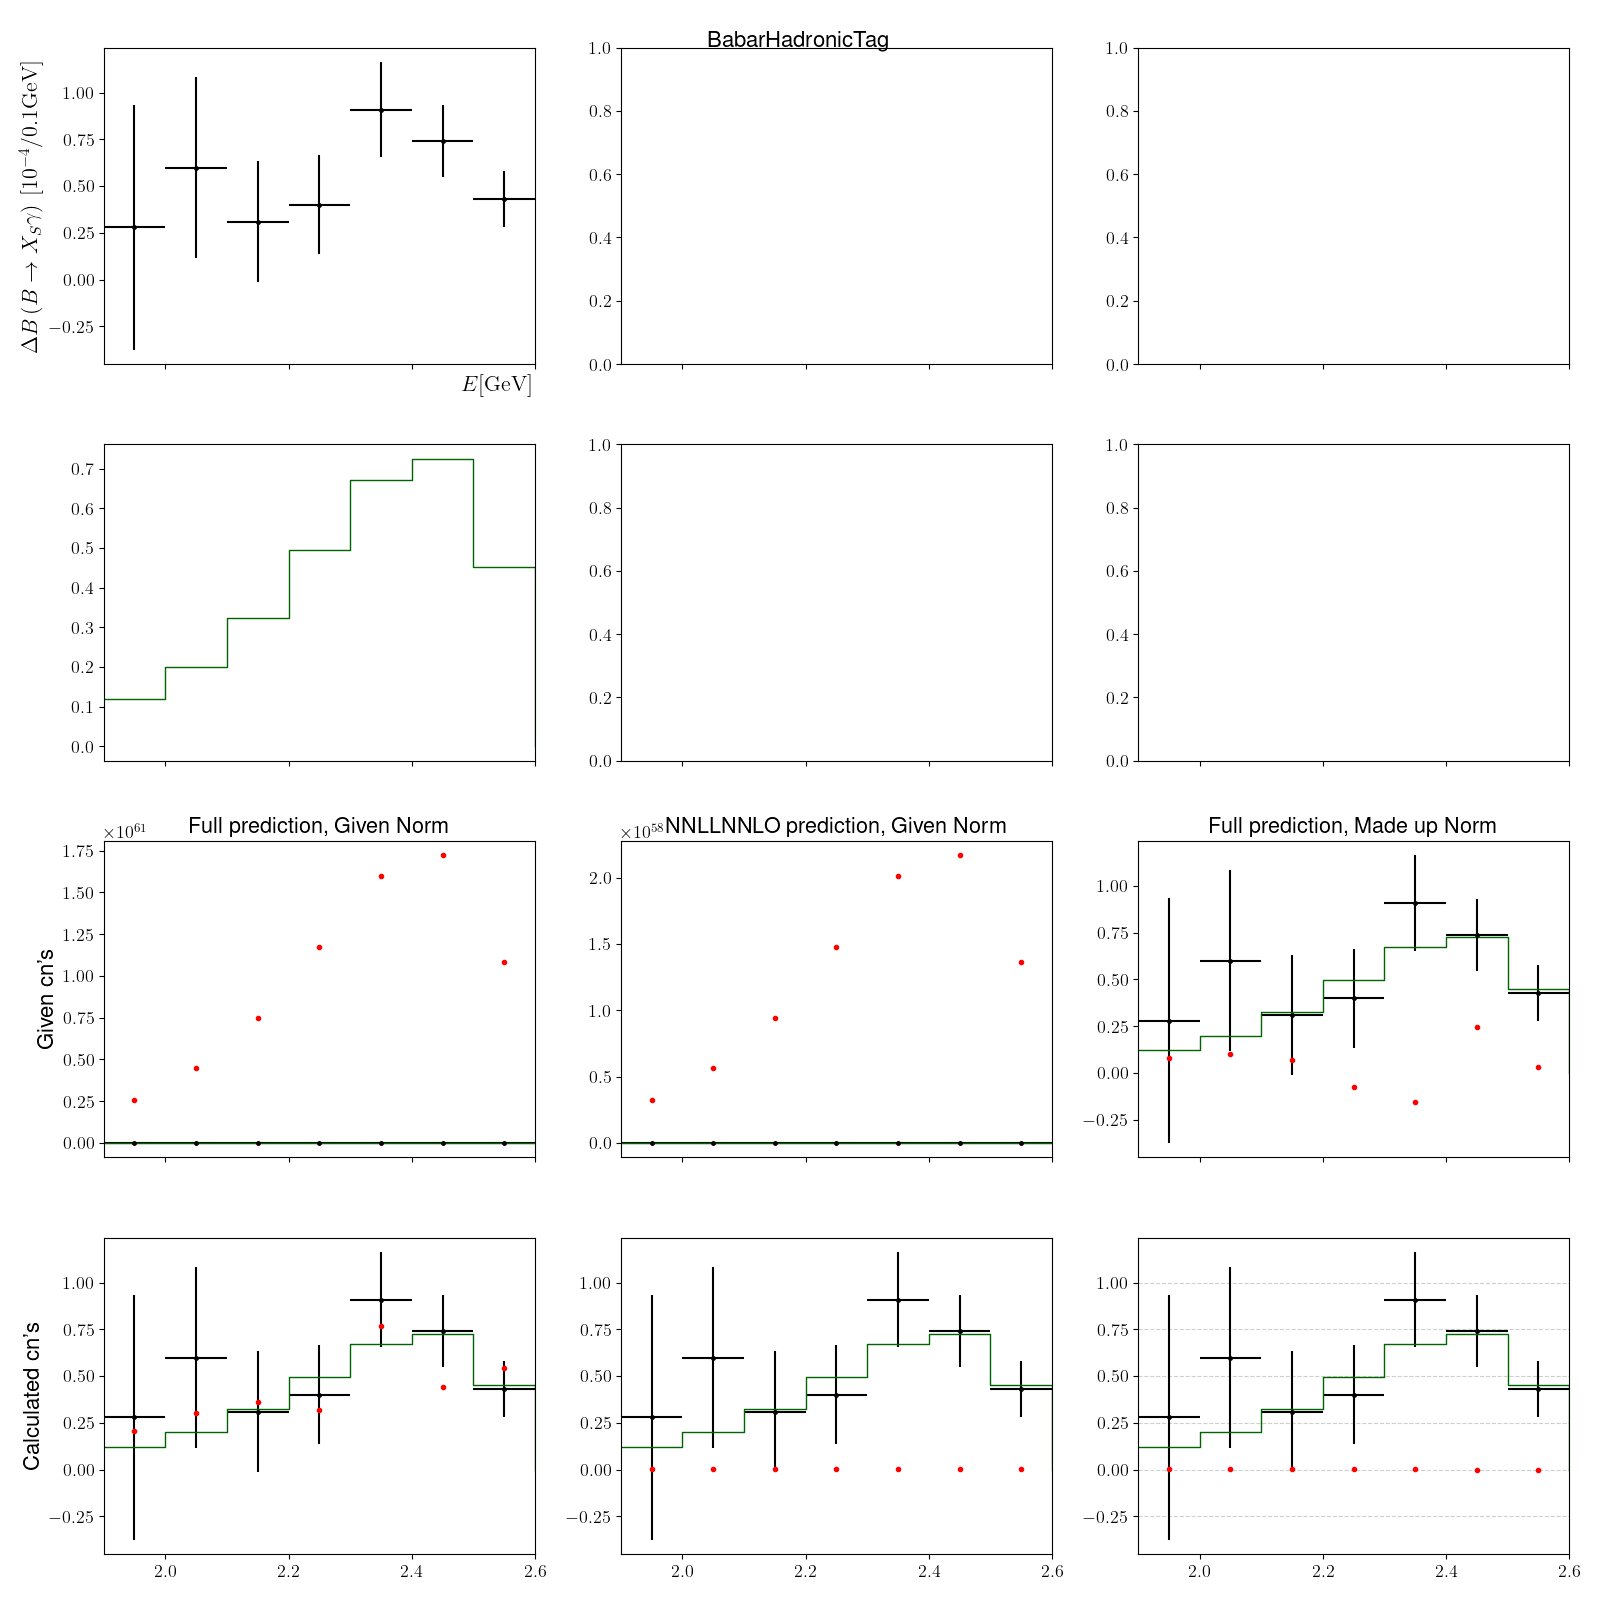
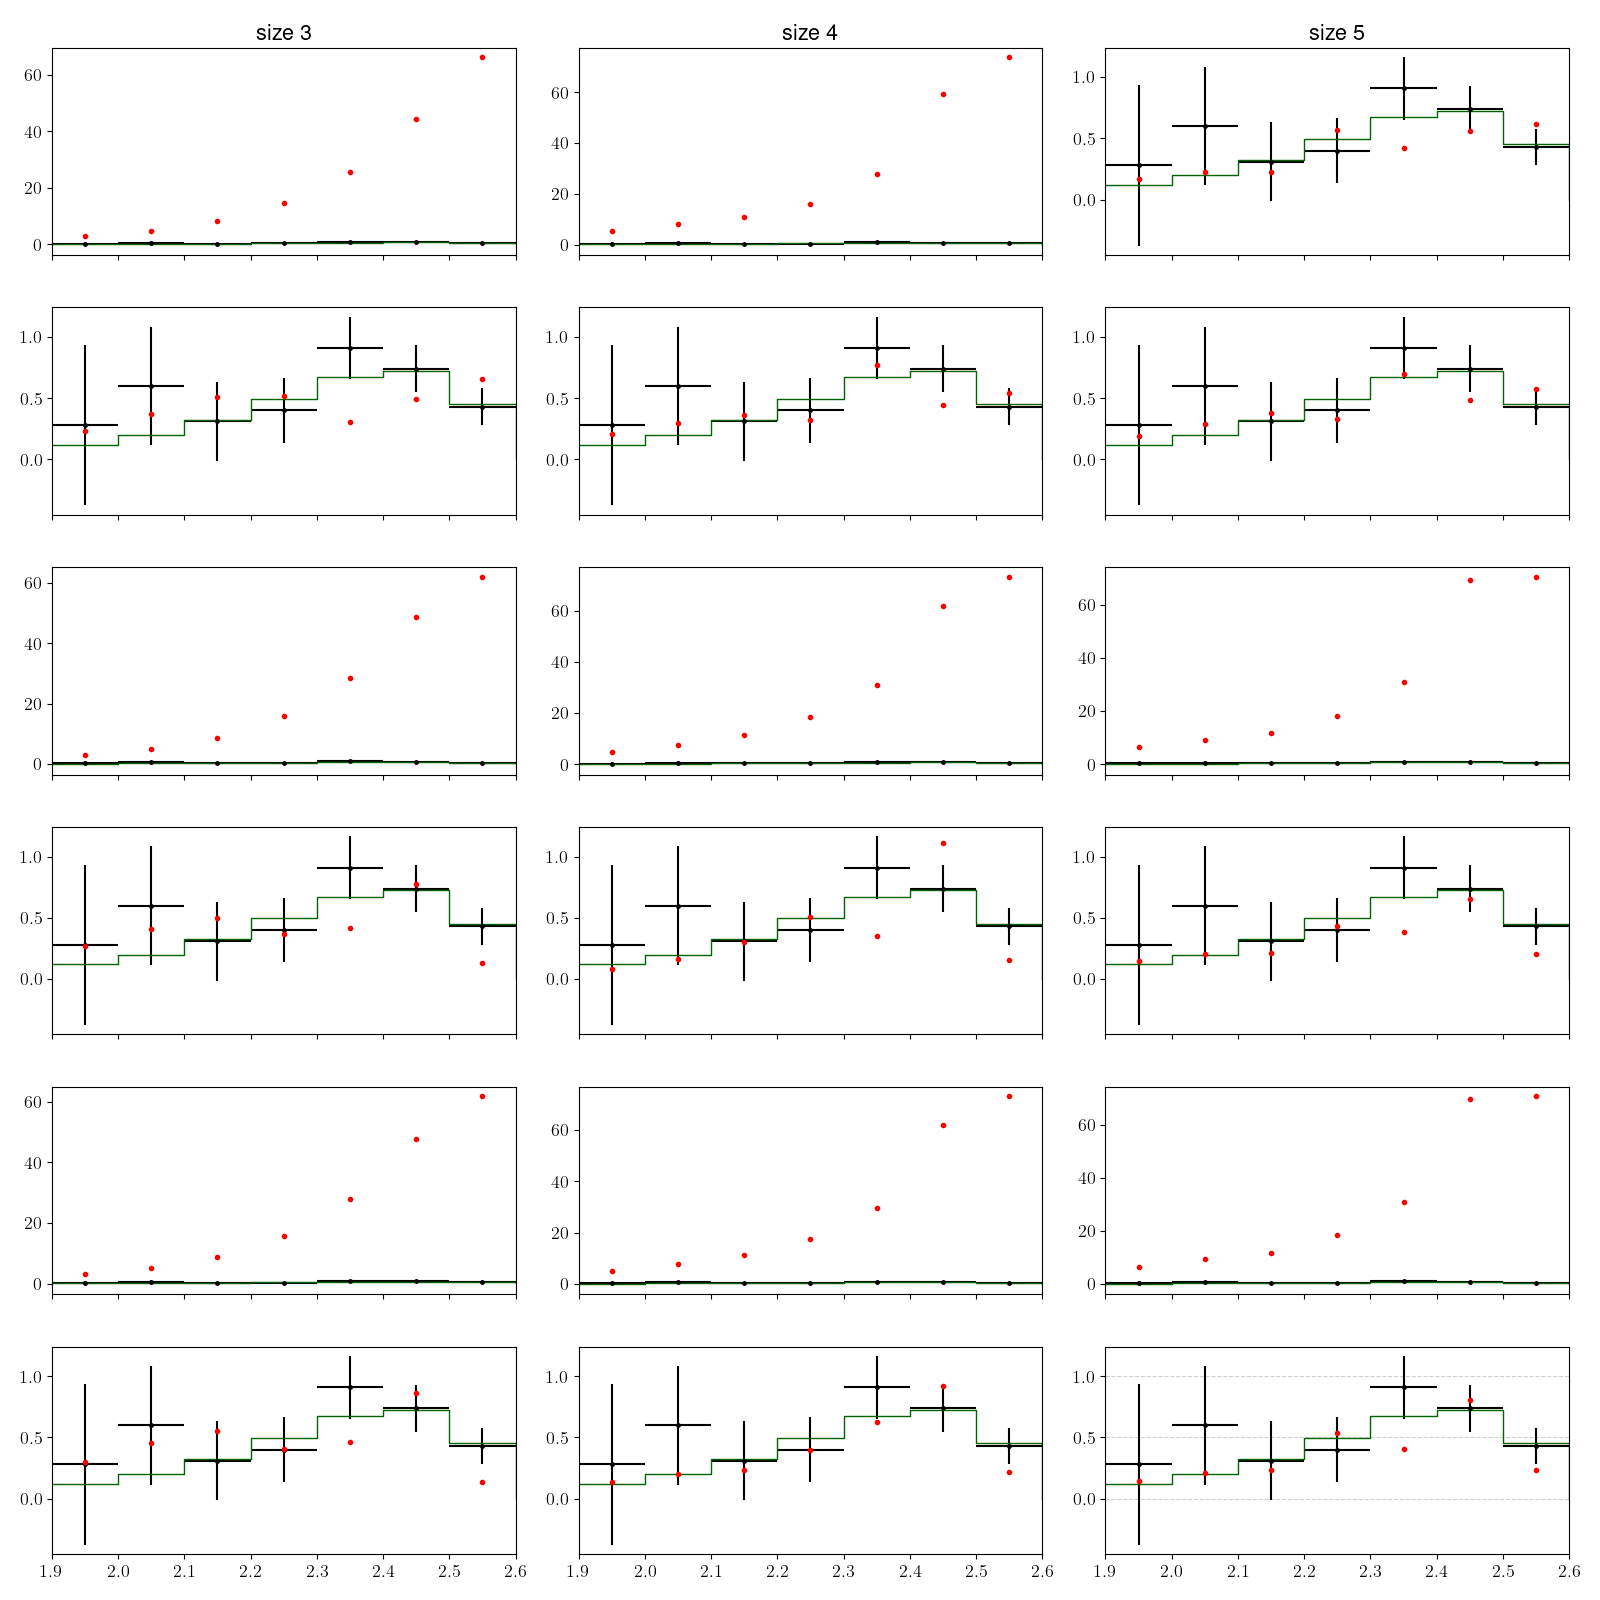
Comparison Hardcoded, BsgFull with if statement, not tested

diff --git a/Plot.py b/Plot.py
@@ -84,31 +84,18 @@ class Plot:
 
         return 
     
-    def check_pred(self, key, end, fig, ax, div_bin = False, box_opt = False, given_pred = False, full = True,  mid = 'NNLLNNLO', made_up_norm = False):
+    def check_pred(self, key, end, fig, ax,an_pars, div_bin = False, box_opt = False):
         
         x,dx = Plot.simple_plot(self, key, fig, ax, div_bin, box_opt)
 
-        if given_pred == True:
-            test_fit_results = np.array([0.9956, 0.0641, 0.0624, 0.0267])
-            if made_up_norm == True:
-                test_norm = 0.6
-            else:
-                test_norm = 4.925 * 10 ** (3)
-        else:
-            test_fit_results = np.array([ 0.43728816 , 1.69457777, -3.86431412, -0.07447766])
-            test_fit_results = Meas.ConvertPars(test_fit_results)
-            if made_up_norm == True:
-                test_norm = 0.05 
-            else:
-                test_norm =0.43728816
+        cn = Meas.ConvertPars(an_pars)
+        
+        norm = an_pars[0]
             
 
 
-        if full == True:
-            y = self.measurement.BsgPrediction_full(key,end, test_fit_results, test_norm)
-        else:
-            y = self.measurement.BsgPrediction(key,mid, end, test_fit_results, test_norm) #+ self.measurement.BsgSubLeadingPrediction(key, test_fit_results, test_norm)
-        
+        y = self.measurement.BsgPrediction_full(key,end, cn, norm)
+
         y = np.matmul(self.measurement.exp_data[key]['Smear'],y)
 
         if div_bin == True:
@@ -141,47 +128,105 @@ class Plot:
          
 
     def compare(self, key, div_bin = False, box_opt = False):
-        fig, axs = plt.subplots(4, 3, figsize=(16, 16), sharex=True)
+        fig, axs = plt.subplots(6, 3, figsize=(16, 16), sharex=True)
 
-        Plot.simple_plot(self, key, fig, axs[0,0], div_bin, box_opt)
+        as23 = np.array([0.838658,-0.422353,0.106128])
+        as24 = np.array([0.914286,-0.504880,0.249589,0.207707])
+        as25 = np.array([0.042643,26.878645,24.338372,22.634102,16.416970])
+        al23 = np.array([0.359303,3947.576246,80.378891])
+        al24 = np.array([0.437288,1.694578,-3.864314,-0.074478])
+        al25 = np.array([0.671518,-1.099613,6.571752,0.371206,-0.031937])
 
-        Plot.plot_histogram(self, self.measurement.hist_nom[key]['Bins'],self.measurement.hist_nom[key]['Values'], fig, axs[1,0],self.measurement.hist_nom[key]['Label'])
+        al33 = np.array([0.148084,6016.698111,1252.626045])
+        al34 = np.array([0.502049,31806.331219,17092.225881,-1177.898593])
+        al35 = np.array([0.493309,-2.817043,20.213729,-23.930707,-0.565804])
+        as33 = np.array([0.844866,-0.407248,0.058612])
+        as34 = np.array([0.922838,-0.415097,0.152539,0.104518])
+        as35 = np.array([0.951869,-0.486525,0.203357,0.195060,0.113255])
 
-        # Given cn's
-        self.check_pred(key, settings.BasisExpansion, fig,axs[2,0], box_opt=False, div_bin= div_bin, given_pred= True, full = True)
+        as43 = np.array([0.843780,-0.402125,0.062842])
+        as44 = np.array([0.920390,-0.439685,0.177431,0.140803])
+        as45 = np.array([0.951448,-0.512677,0.211717,0.213323,0.118997])
+        al43 = np.array([0.155194,25038.419489,5364.382903])
+        al44 = np.array([0.382562,-0.494960,0.009761,0.127197])
+        al45 = np.array([0.520989,-3.558982,30.134934,-25.682246,-0.925172])
+
+
+        #sub, 2
+        self.check_pred(key, settings.BasisExpansion, fig,axs[0,0],as23, box_opt=False, div_bin= div_bin)
+        Plot.plot_histogram(self, self.measurement.hist_nom[key]['Bins'], self.measurement.hist_nom[key]['Values'], fig, axs[0,0], self.measurement.hist_nom[key]['Label'], div_bin=div_bin)
+
+        self.check_pred(key, settings.BasisExpansion, fig,axs[0,1],as24, box_opt=False, div_bin= div_bin)
+        Plot.plot_histogram(self, self.measurement.hist_nom[key]['Bins'], self.measurement.hist_nom[key]['Values'], fig, axs[0,1], self.measurement.hist_nom[key]['Label'], div_bin=div_bin)
+        
+        self.check_pred(key, settings.BasisExpansion, fig,axs[0,2],as25, box_opt=False, div_bin= div_bin)
+        Plot.plot_histogram(self, self.measurement.hist_nom[key]['Bins'], self.measurement.hist_nom[key]['Values'], fig, axs[0,2], self.measurement.hist_nom[key]['Label'], div_bin=div_bin)
+        
+        #lead, 2
+        self.check_pred(key, settings.BasisExpansion, fig,axs[1,0],al23, box_opt=False, div_bin= div_bin)
+        Plot.plot_histogram(self, self.measurement.hist_nom[key]['Bins'], self.measurement.hist_nom[key]['Values'], fig, axs[1,0], self.measurement.hist_nom[key]['Label'], div_bin=div_bin)
+
+        self.check_pred(key, settings.BasisExpansion, fig,axs[1,1],al24, box_opt=False, div_bin= div_bin)
+        Plot.plot_histogram(self, self.measurement.hist_nom[key]['Bins'], self.measurement.hist_nom[key]['Values'], fig, axs[1,1], self.measurement.hist_nom[key]['Label'], div_bin=div_bin)
+        
+        self.check_pred(key, settings.BasisExpansion, fig,axs[1,2],al25, box_opt=False, div_bin= div_bin)
+        Plot.plot_histogram(self, self.measurement.hist_nom[key]['Bins'], self.measurement.hist_nom[key]['Values'], fig, axs[1,2], self.measurement.hist_nom[key]['Label'], div_bin=div_bin)
+        
+        #sub, 3
+        self.check_pred(key, settings.BasisExpansion, fig,axs[2,0],as33, box_opt=False, div_bin= div_bin)
         Plot.plot_histogram(self, self.measurement.hist_nom[key]['Bins'], self.measurement.hist_nom[key]['Values'], fig, axs[2,0], self.measurement.hist_nom[key]['Label'], div_bin=div_bin)
 
-        self.check_pred(key, settings.BasisExpansion, fig,axs[2,1], box_opt=False, div_bin= div_bin, given_pred= True, full = False)
+        self.check_pred(key, settings.BasisExpansion, fig,axs[2,1],as34, box_opt=False, div_bin= div_bin)
         Plot.plot_histogram(self, self.measurement.hist_nom[key]['Bins'], self.measurement.hist_nom[key]['Values'], fig, axs[2,1], self.measurement.hist_nom[key]['Label'], div_bin=div_bin)
-
-        self.check_pred(key, settings.BasisExpansion, fig,axs[2,2], box_opt=False, div_bin= div_bin, given_pred= True, full = True, made_up_norm= True)
+        
+        self.check_pred(key, settings.BasisExpansion, fig,axs[2,2],as35, box_opt=False, div_bin= div_bin)
         Plot.plot_histogram(self, self.measurement.hist_nom[key]['Bins'], self.measurement.hist_nom[key]['Values'], fig, axs[2,2], self.measurement.hist_nom[key]['Label'], div_bin=div_bin)
-
-        #Calculated cn's
-        self.check_pred(key, settings.BasisExpansion, fig,axs[3,0], box_opt=False, div_bin= div_bin, given_pred= False, full = True)
+        
+        #lead, 3
+        self.check_pred(key, settings.BasisExpansion, fig,axs[3,0],al33, box_opt=False, div_bin= div_bin)
         Plot.plot_histogram(self, self.measurement.hist_nom[key]['Bins'], self.measurement.hist_nom[key]['Values'], fig, axs[3,0], self.measurement.hist_nom[key]['Label'], div_bin=div_bin)
 
-        self.check_pred(key, settings.BasisExpansion, fig,axs[3,1], box_opt=False, div_bin= div_bin, given_pred= False, full = False)
+        self.check_pred(key, settings.BasisExpansion, fig,axs[3,1],al34, box_opt=False, div_bin= div_bin)
         Plot.plot_histogram(self, self.measurement.hist_nom[key]['Bins'], self.measurement.hist_nom[key]['Values'], fig, axs[3,1], self.measurement.hist_nom[key]['Label'], div_bin=div_bin)
-
-        self.check_pred(key, settings.BasisExpansion, fig,axs[3,2], box_opt=False, div_bin= div_bin, given_pred= False, full = True, made_up_norm= True)
+        
+        self.check_pred(key, settings.BasisExpansion, fig,axs[3,2],al35, box_opt=False, div_bin= div_bin)
         Plot.plot_histogram(self, self.measurement.hist_nom[key]['Bins'], self.measurement.hist_nom[key]['Values'], fig, axs[3,2], self.measurement.hist_nom[key]['Label'], div_bin=div_bin)
+        
+        #sub, 4
+        self.check_pred(key, settings.BasisExpansion, fig,axs[4,0],as43, box_opt=False, div_bin= div_bin)
+        Plot.plot_histogram(self, self.measurement.hist_nom[key]['Bins'], self.measurement.hist_nom[key]['Values'], fig, axs[4,0], self.measurement.hist_nom[key]['Label'], div_bin=div_bin)
 
+        self.check_pred(key, settings.BasisExpansion, fig,axs[4,1],as44, box_opt=False, div_bin= div_bin)
+        Plot.plot_histogram(self, self.measurement.hist_nom[key]['Bins'], self.measurement.hist_nom[key]['Values'], fig, axs[4,1], self.measurement.hist_nom[key]['Label'], div_bin=div_bin)
+        
+        self.check_pred(key, settings.BasisExpansion, fig,axs[4,2],as45, box_opt=False, div_bin= div_bin)
+        Plot.plot_histogram(self, self.measurement.hist_nom[key]['Bins'], self.measurement.hist_nom[key]['Values'], fig, axs[4,2], self.measurement.hist_nom[key]['Label'], div_bin=div_bin)
+        
+        #lead, 4
+        self.check_pred(key, settings.BasisExpansion, fig,axs[5,0],al43, box_opt=False, div_bin= div_bin)
+        Plot.plot_histogram(self, self.measurement.hist_nom[key]['Bins'], self.measurement.hist_nom[key]['Values'], fig, axs[5,0], self.measurement.hist_nom[key]['Label'], div_bin=div_bin)
 
+        self.check_pred(key, settings.BasisExpansion, fig,axs[5,1],al44, box_opt=False, div_bin= div_bin)
+        Plot.plot_histogram(self, self.measurement.hist_nom[key]['Bins'], self.measurement.hist_nom[key]['Values'], fig, axs[5,1], self.measurement.hist_nom[key]['Label'], div_bin=div_bin)
+        
+        self.check_pred(key, settings.BasisExpansion, fig,axs[5,2],al45, box_opt=False, div_bin= div_bin)
+        Plot.plot_histogram(self, self.measurement.hist_nom[key]['Bins'], self.measurement.hist_nom[key]['Values'], fig, axs[5,2], self.measurement.hist_nom[key]['Label'], div_bin=div_bin)
+        
+       
         plt.tight_layout()
 
         for ax in axs:
             for i in ax:
                 i.set_title("")
+                i.set_ylabel("")
 
-        axs[2,0].set_title("Full prediction, Given Norm")
-        axs[2,1].set_title("NNLLNNLO prediction, Given Norm")
-        axs[2,2].set_title("Full prediction, Made up Norm")
+        axs[0,0].set_title("size 3")
+        axs[0,1].set_title("size 4")
+        axs[0,2].set_title("size 5")
 
-        axs[2,0].set_ylabel("Given cn's")
-        axs[3,0].set_ylabel("Calculated cn's")
 
-        fig.suptitle(r""+self.measurement.exp_data[key]['Label'], fontsize=16, fontweight="bold")
+
+        #fig.suptitle(r""+self.measurement.exp_data[key]['Label'], fontsize=16, fontweight="bold")
 
         plt.savefig('compare/'+key+'_compare')
 

diff --git a/Meas.py b/Meas.py
@@ -14,7 +14,7 @@ class settings:
     TheoryOrder = ['NNLLNNLO', 'NS22NNLO', 'NS27NNLO', 'NS28NNLO', 'NS78NNLO', 'NS88NNLO']
     SubLeadTheoryOrder = 'SSF27_10575' # What is it? 
     FitVars = ['norm', 'a1', 'a2'] #List of Strings according to fit.config
-    KeyOrder = ["babar_incl", "babar_hadtag"]#, "babar_sem", "belle"]
+    KeyOrder = ["babar_incl", "babar_hadtag", "babar_sem", "belle"]
     BasisExpansion = '0575'
     SubLeadBasisExpansion = '10575' # ATTENTION, is in SubLeadingPred used
 
@@ -61,7 +61,7 @@ class Meas:
 
         return
 
-    def BsgPrediction_full(self, key: str, end: str, c_n_params, norm):
+    def BsgPrediction_full(self, key: str, end: str, c_n_params, norm, with_sub = True):
 
         pred = np.zeros(np.size(self.exp_data[key]['dBFs']))
         self.mb = self.mb1SPrediction(c_n_params) #HERE mb should change values in the object
@@ -69,8 +69,9 @@ class Meas:
         for order in range(np.size(settings.TheoryOrder)):
             pred += self.BsgPrediction(key, settings.TheoryOrder[order], end, c_n_params, norm ) * self.TheoryPrefactor(settings.TheoryOrder[order], norm)
         
-        for order in range(np.size(settings.SubLeadTheoryOrder)):
-            pred += self.BsgSubLeadingPrediction(key, self.SubLeadPars(c_n_params, settings.SubLeadCoefficients[order]), norm) * self.TheoryPrefactor(settings.SubLeadTheoryOrder[order], norm)
+        if with_sub == True:
+            for order in range(np.size(settings.SubLeadTheoryOrder)):
+                pred += self.BsgSubLeadingPrediction(key, self.SubLeadPars(c_n_params, settings.SubLeadCoefficients[order]), norm) * self.TheoryPrefactor(settings.SubLeadTheoryOrder[order], norm)
 
         pred = np.matmul(self.exp_data[key]['Smear'],pred) 
 
@@ -128,7 +129,7 @@ class Meas:
                     value +=  self.theory_SSF[key]['la'+ settings.SubLeadBasisExpansion]['Values'][i][0][j] * c_n_params[j]
                     value *= norm
                 except IndexError:
-                    print('SubLeadingTheory for %s and %s has only %d values per bin, so we just used the first %d Parameters' % (key,settings.SubLeadBasisExpansion,j, j))
+                    print('Something is awfully wrong here')
                     break
             pred = np.append(pred, value)
 
@@ -221,7 +222,7 @@ class Meas:
 
         pred_glob = np.array([])
         meas_glob = np.array([])
-        Cov_glob = np.zeros((17,17)) #FIXME Oddly specific
+        Cov_glob = np.zeros((52,52)) #FIXME Oddly specific
 
         ntot = 0
 
@@ -254,15 +255,24 @@ class Meas:
         self.la = settings.BasisExpansion # TODO: in C++ via a function, which returns a string with the used _expansion, I guess it is my 'end'
         return Chisq
 
-
 '''
 start_pars = np.array([1, 0.00506919, 0.0, 0.0798100, 0.0870341, 0.0250290, 0.0])
 
-pas = Meas()
 
-p = Minuit(pas.Chisq, start_pars)
-p.migrad()
-p.hesse()
+with open('results.csv', 'a') as file:
+    for i in range(3, np.size(start_pars)-1, 1):
+        print(range(3, np.size(start_pars)-1, 1))
+        mes = Meas()
+        m = Minuit(mes.Chisq, start_pars[0:i])
+        m.migrad()
+        m.hesse()
+        #m.minos()
 
-print(p.values)
+        file.write('l;')
+        file.write('%d;' % np.size(start_pars[0:i]))
+        for j in range(np.size(start_pars[0:i])):
+            if j == np.size(start_pars[0:i])-1: file.write('%f'% m.values[j])
+            else: file.write('%f;'% m.values[j])
+        
+        file.write('\n')'
 '''
